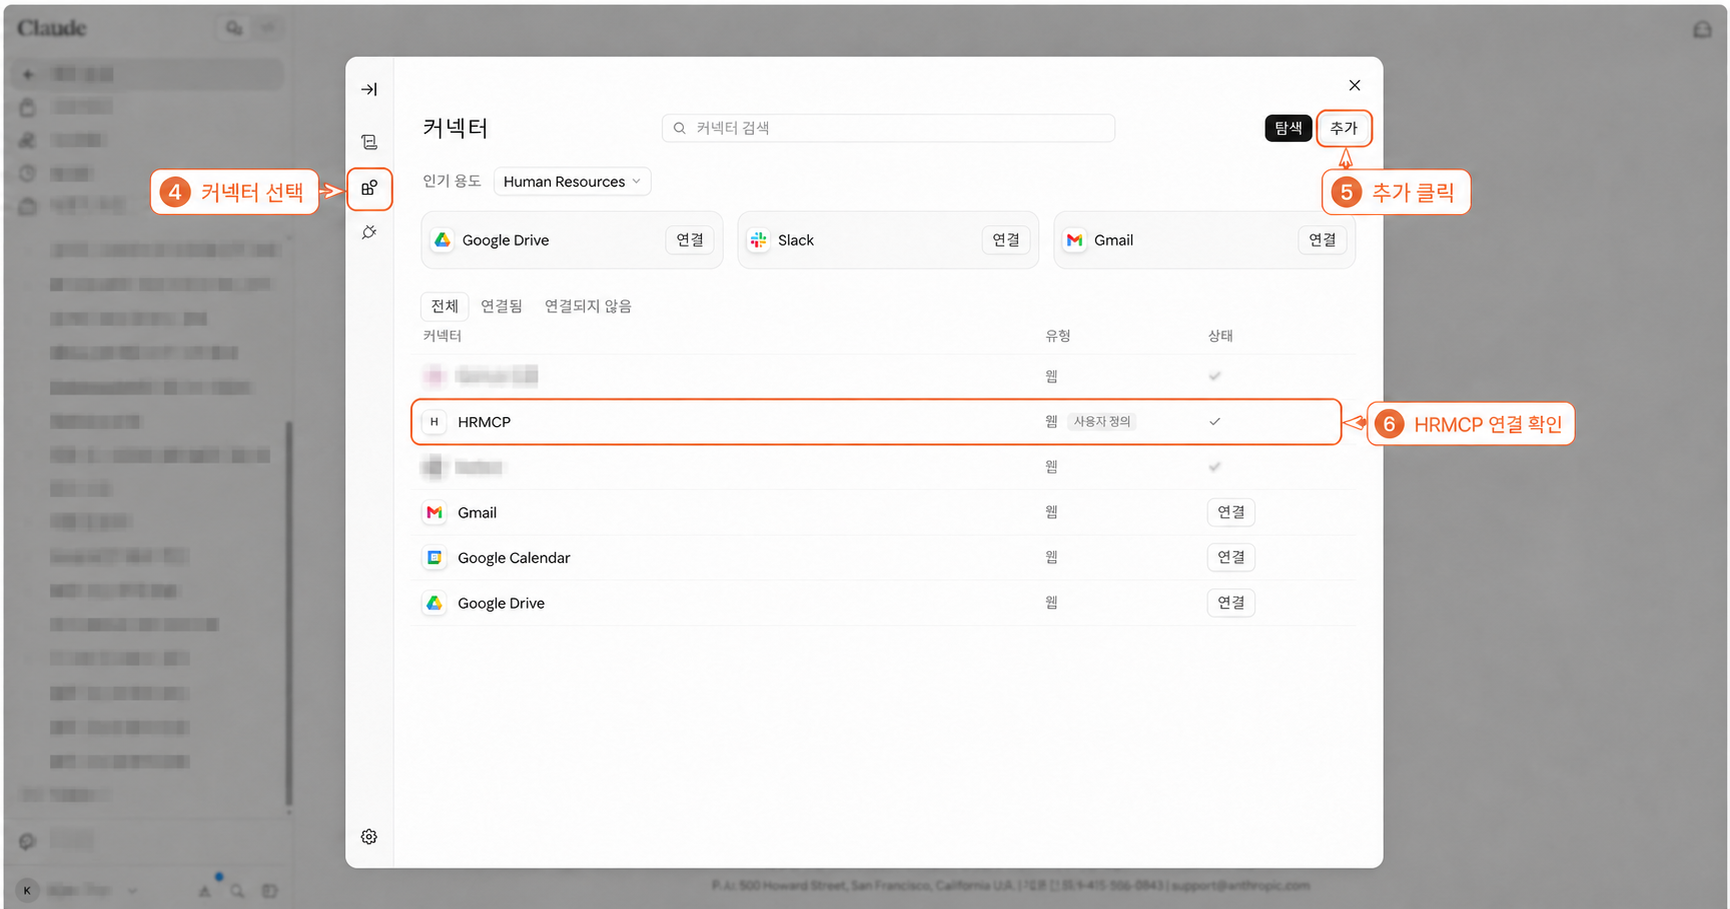
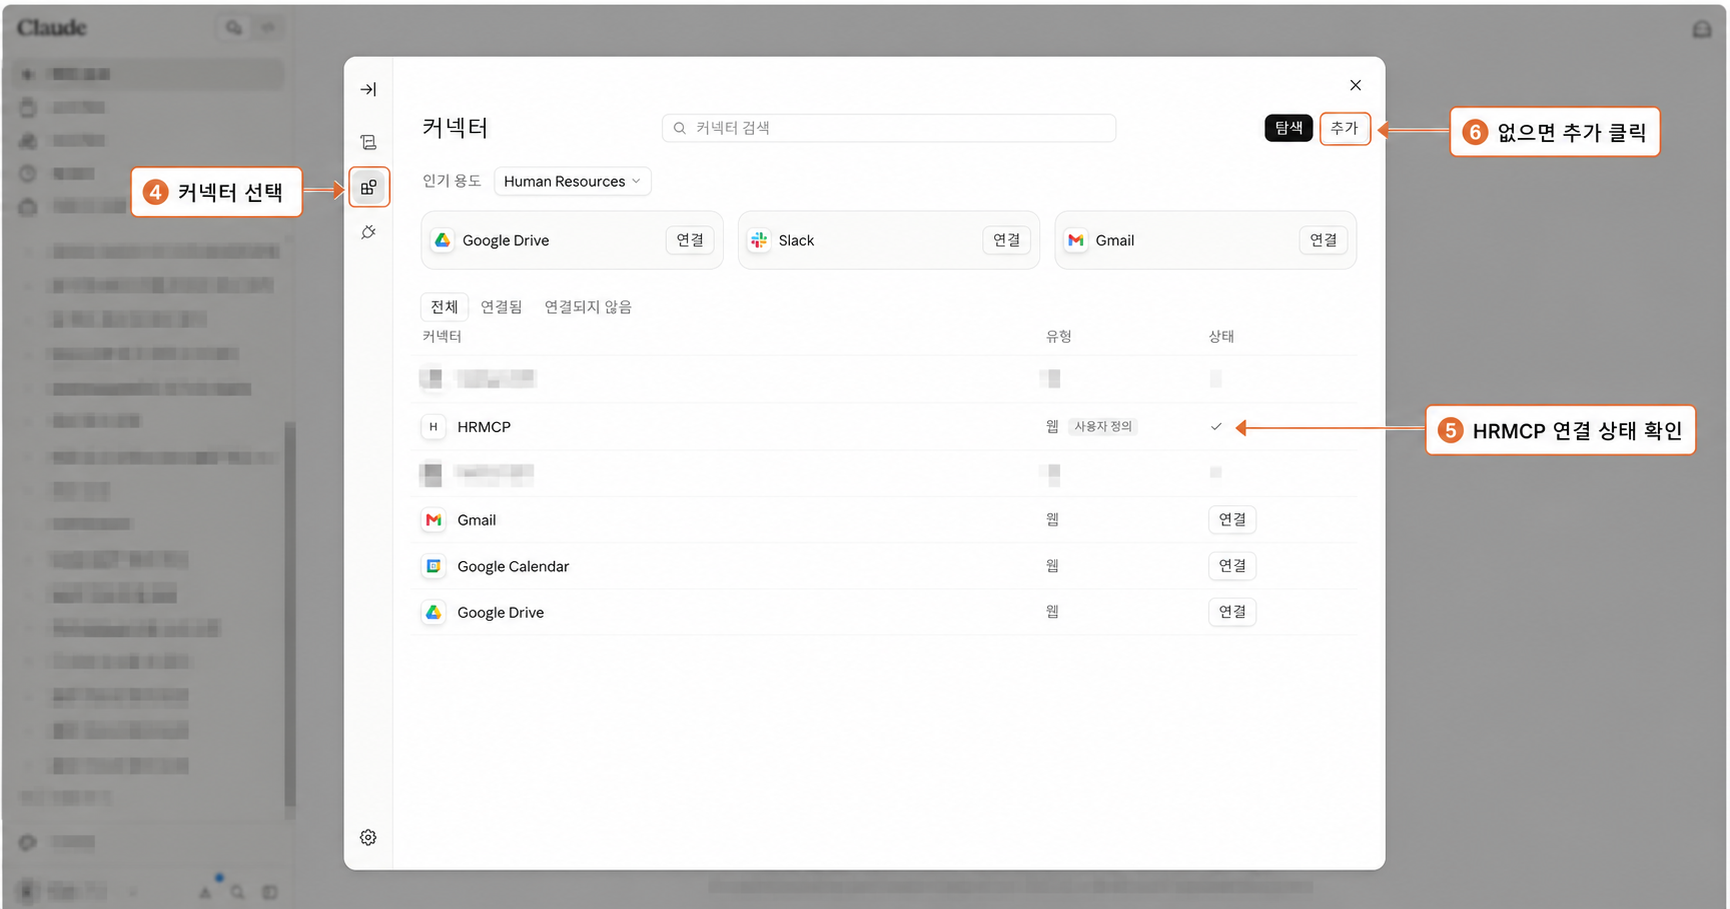
Clarify Claude custom connector registration

diff --git a/README.md b/README.md
@@ -133,13 +133,13 @@ Claude의 원격 MCP 커스텀 커넥터는 Free·Pro·Max·Team·Enterprise 플
 
 **[Claude에 HRMCP 커넥터 추가하기](https://claude.ai/customize/connectors?modal=add-custom-connector&connectorName=HRMCP&connectorUrl=https%3A%2F%2Fncscope-ncs-mcp.vercel.app%2Fapi%2Fmcp)**
 
-> 위 링크는 Claude의 현재 커넥터 추가 화면을 열고 이름과 URL을 미리 입력합니다. 사용자가
-> 내용을 확인한 뒤 직접 추가해야 하며, 권한 확인을 건너뛰지 않습니다.
+> 위 링크를 열면 커넥터 추가 화면에 이름과 URL이 미리 입력됩니다. 입력값을 확인한 뒤
+> **계속**을 눌러 등록을 진행하세요.
 
 ### 개인 플랜 (Free·Pro·Max)
 
-위의 바로가기 링크를 사용하면 아래 1~4단계를 건너뛰고 커넥터 추가 화면으로 이동할 수
-있습니다. Claude 웹 화면에서 직접 이동하려면 다음 순서를 따릅니다.
+위의 바로가기 링크를 사용하면 아래 1~6단계를 건너뛰고 7단계의 커넥터 등록 화면으로
+이동할 수 있습니다. Claude 웹 화면에서 직접 이동하려면 다음 순서를 따릅니다.
 
 1. Claude 홈 화면 왼쪽 아래의 **프로필**을 클릭합니다.
 
@@ -153,24 +153,28 @@ Claude의 원격 MCP 커스텀 커넥터는 Free·Pro·Max·Team·Enterprise 플
 
 ![Claude 설정 창에서 사용자 지정을 선택하는 화면](docs/images/setup/claude_hrmcp_setup_03_customize.png)
 
-4. 사용자 지정 화면 왼쪽에서 **커넥터**를 선택하고, 오른쪽 위의 **추가**를 클릭합니다.
+4. 사용자 지정 화면 왼쪽에서 **커넥터**를 선택합니다.
 
-![Claude 사용자 지정의 커넥터 화면에서 HRMCP 연결 상태와 추가 버튼을 확인하는 화면](docs/images/setup/claude_hrmcp_setup_04_connectors.png)
+5. 커넥터 목록에서 `HRMCP`를 찾습니다. `HRMCP` 행에 체크 표시가 보이면 연결된 상태이며,
+   Claude 대화에서 바로 사용할 수 있습니다.
 
-5. 커넥터 추가 창에 아래 값을 입력하고 **추가**를 클릭합니다. 추가 창은 계정에 따라 한
-   화면 또는 두 단계로 표시될 수 있습니다.
+6. 목록에 `HRMCP`가 없다면 오른쪽 위의 **추가**를 클릭합니다.
 
-| 항목 | 입력값 |
-| --- | --- |
-| 이름 | `HRMCP` |
-| 원격 MCP 서버 URL | `https://ncscope-ncs-mcp.vercel.app/api/mcp` |
-| 인증 | 없음 — OAuth Client ID·Secret을 입력하지 않습니다. |
+![Claude 커넥터 목록에서 기존 HRMCP 연결 상태를 확인하고 없을 때 추가하는 화면](docs/images/setup/claude_hrmcp_setup_04_connectors.png)
 
-6. 커넥터 목록의 `HRMCP` 행에 체크 표시가 보이면 연결이 완료된 상태입니다.
+7. **추가**를 누르면 **커스텀 커넥터 추가** 창이 열립니다. **이름**에 `HRMCP`를 입력합니다.
 
-> 위 스크린샷은 현재 Claude 웹 화면을 기준으로 작성했으며, 개인 정보와 대화 제목은
-> 알아볼 수 없도록 모자이크 처리했습니다. Claude 업데이트나 계정 유형에 따라 메뉴 배치나
-> 버튼 이름이 조금 달라질 수 있습니다.
+8. **원격 MCP 서버 URL**에 `https://ncscope-ncs-mcp.vercel.app/api/mcp`를 입력합니다.
+
+9. 두 값을 확인한 뒤 **계속**을 클릭해 연결 절차를 진행합니다.
+
+![Claude 커스텀 커넥터 추가 창에서 이름과 원격 MCP 서버 URL을 입력하는 화면](docs/images/setup/claude_hrmcp_setup_05_add_custom_connector.png)
+
+**계속**을 누르면 연결 설정이 진행됩니다. 확인 단계가 표시되면 내용을 확인해 등록을
+마칩니다. HRMCP는 인증이 필요하지 않으므로 OAuth Client ID·Secret은 입력하지 않습니다.
+커넥터 목록으로 돌아왔을 때 `HRMCP` 행에 체크 표시가 보이면 등록과 연결이 완료된 것입니다.
+
+> Claude 업데이트나 계정 유형에 따라 메뉴 배치나 버튼 이름이 조금 달라질 수 있습니다.
 
 ### Team·Enterprise 플랜
 
